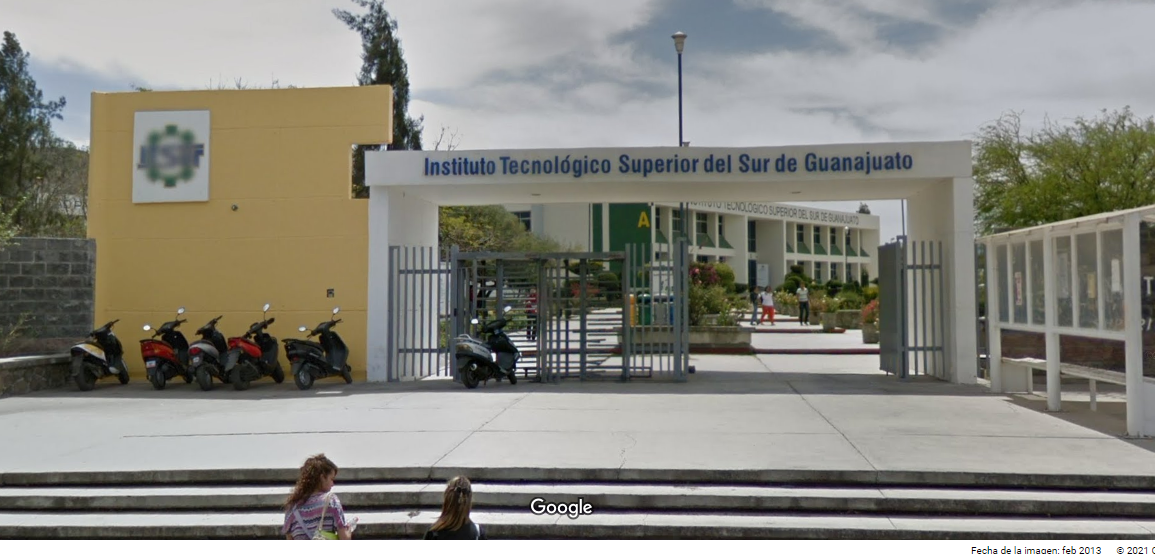
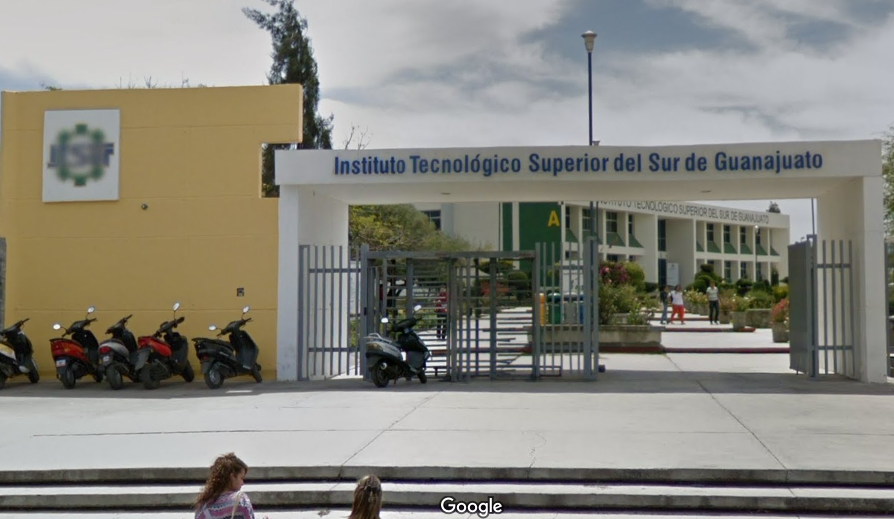
Se agrego iamgen de fondo en la pagina de Filosofia utilizando desenfique

diff --git a/Filosofia.html b/Filosofia.html
@@ -11,7 +11,8 @@
     <link rel="stylesheet" href="style/style_master.css">
     <link rel="stylesheet" href="style/style_Filosofia.css">
 </head>
-<body  class="Fondo-patron Fondo-ITSUR">
+<body >
+  
     <header class="my-1">
     </header>
     <!---Menu principal-->
@@ -130,8 +131,8 @@
         </div>
       </div>
   </nav>
-
-      <div class="container-md my-3">
+  <div class="Fondo-ITSUR contenedor" style="height: 1050px;"></div>
+      <div class="container-md my-3 contenido">
         <section>
           <h2 class="text-center"><strong>FILOSOFÍA INSTITUCIONAL</strong></h2>
               <div class="row my-5">

diff --git a/style/style_Filosofia.css b/style/style_Filosofia.css
@@ -1,6 +1,15 @@
 .Fondo-ITSUR{
-    background-image: url(../imgs/EntradaITSUR.png) !important;
-    background-size: contain;
-    background-repeat: no-repeat!important;
-    
+    background-image: url(../imgs/EntradaITSUR.png);
+    filter: blur(6px);
+    background-size: cover;
+    background-repeat: no-repeat;
+    background-attachment: fixed;
+    position: absolute;
+    z-index: -1;
+    width: 100%;
+    height: 100%;
+}
+
+.contenido{
+    background-color: rgba(255, 255, 255, 0.650)!important;
 }
